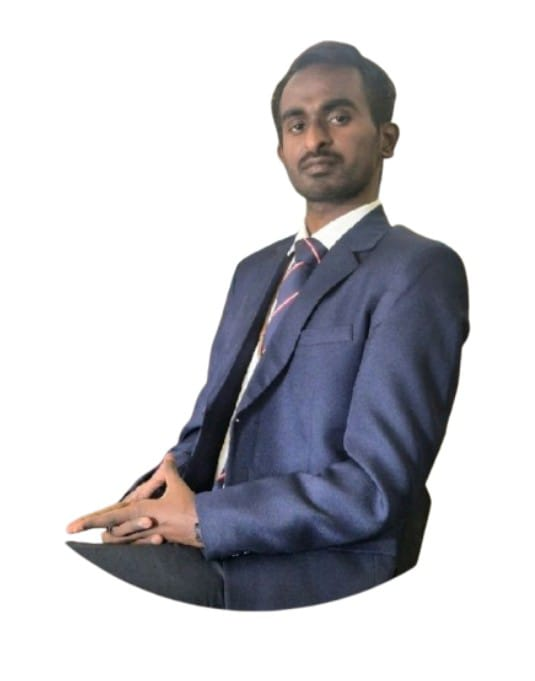
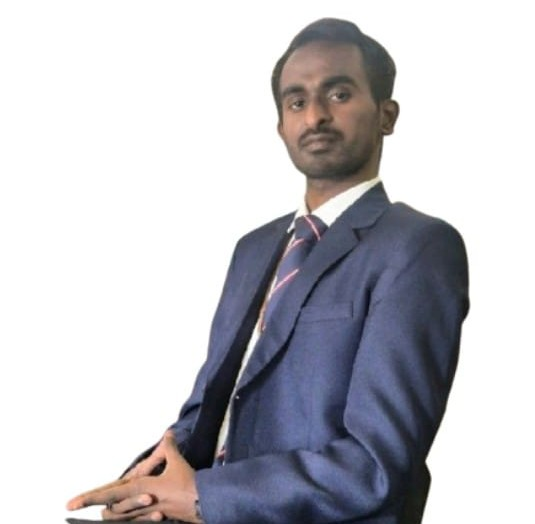
event updates added

diff --git a/components/EventUpdates/Index.jsx b/components/EventUpdates/Index.jsx
@@ -1,0 +1,160 @@
+import React, { useState, useEffect } from 'react';
+import { motion, AnimatePresence } from 'framer-motion';
+import { useRouter } from 'next/router';
+
+const EventUpdates = () => {
+  const router = useRouter();
+  const [currentIndex, setCurrentIndex] = useState(0);
+  const [direction, setDirection] = useState(1);
+
+  // Default sample data if no updates provided
+  const data = [
+    {
+      text: "PPT submission deadline extended to 8th October. Submit now!",
+      link: "/registration/techxhibit"
+    },
+      {
+      text: "Jury panel revealed! Meet our expert judges.",
+      link: "/#about-jury"
+    },
+    // {
+    //   text: "Workshop on AI/ML fundamentals scheduled for next week. Stay tuned!",
+    //   link: "/schedule"
+    // },
+    // {
+    //   text: "New sponsor announcement: TechCorp joins as Platinum Sponsor.",
+    //   link: "/sponsors"
+    // },
+  
+    // {
+    //   text: "Event location updated: Check the new venue details.",
+    //   link: "/location"
+    // }
+  ];
+
+ 
+
+  // Auto-advance carousel
+  useEffect(() => {
+    const timer = setInterval(() => {
+      setDirection(1);
+      setCurrentIndex((prevIndex) => (prevIndex + 1) % data.length);
+    }, 8000); // Change slide every 8 seconds
+
+    return () => clearInterval(timer);
+  }, [data.length]);
+
+  const goToSlide = (index) => {
+    setDirection(index > currentIndex ? 1 : -1);
+    setCurrentIndex(index);
+  };
+
+  const nextSlide = () => {
+    setDirection(1);
+    setCurrentIndex((prevIndex) => (prevIndex + 1) % data.length);
+  };
+
+  const prevSlide = () => {
+    setDirection(-1);
+    setCurrentIndex((prevIndex) => (prevIndex - 1 + data.length) % data.length);
+  };
+
+  const handleSlideClick = (link) => {
+    router.push(link);
+  };
+  if (data.length === 0) {
+    return null; // Don't render the section if there are no updates
+  }
+  return (
+    <div className="section-container py-10">
+      <motion.div
+        initial={{ opacity: 0, y: 30 }}
+        animate={{ opacity: 1, y: 0 }}
+        transition={{ duration: 0.8 }}
+        className="text-center mb-8"
+      >
+        <h2 className="text-4xl font-bold text-qiskit-white mb-4">
+          Event Updates
+        </h2>
+        <p className="text-gray-300 text-lg">
+          Stay updated with the latest news and announcements
+        </p>
+      </motion.div>
+
+      <div className="relative max-w-4xl mx-auto">
+        <div className="relative h-64 overflow-hidden rounded-lg bg-gray-900/50 border border-gray-700">
+          <motion.div
+            drag="x"
+            dragConstraints={{ left: 0, right: 0 }}
+            dragElastic={0}
+            dragMomentum={false}
+            onDragEnd={(event, info) => {
+              if (info.offset.x < -50) {
+                nextSlide();
+              } else if (info.offset.x > 50) {
+                prevSlide();
+              }
+            }}
+            className="cursor-grab active:cursor-grabbing"
+          >
+            <AnimatePresence mode="wait" custom={direction}>
+              <motion.div
+                key={currentIndex}
+                custom={direction}
+                initial={{ x: direction * 300, opacity: 0 }}
+                animate={{ x: 0, opacity: 1 }}
+                exit={{ x: -direction * 300, opacity: 0 }}
+                transition={{ duration: 0.5 }}
+                className="absolute inset-0 flex items-center justify-center p-8 cursor-pointer"
+                onClick={() => handleSlideClick(data[currentIndex].link)}
+              >
+                <div className="text-center">
+                  <div className="w-16 h-16 bg-gradient-to-r from-qiskit-blue-normal to-qiskit-purple-lighter rounded-full mx-auto mb-6 flex items-center justify-center shadow-lg">
+                    <span className="text-2xl font-bold text-white">!</span>
+                  </div>
+                  <p className="text-gray-300 text-lg leading-relaxed hover:text-qiskit-white transition-colors">
+                    {data[currentIndex]?.text}
+                  </p>
+                  <div className="mt-6 text-qiskit-yellow font-medium text-sm opacity-0 hover:opacity-100 transition-opacity">
+                    Click to learn more →
+                  </div>
+                </div>
+              </motion.div>
+            </AnimatePresence>
+          </motion.div>
+        </div>
+
+        {/* Navigation arrows */}
+        <button
+          onClick={prevSlide}
+          className="hidden md:block absolute left-4 top-1/2 transform -translate-y-1/2 bg-gray-800/80 hover:bg-gray-700 text-white md:p-4 p-3 rounded-full shadow-lg transition-colors"
+        >
+          ‹
+        </button>
+        <button
+          onClick={nextSlide}
+          className="hidden md:block absolute right-4 top-1/2 transform -translate-y-1/2 bg-gray-800/80 hover:bg-gray-700 text-white md:p-4 p-3 rounded-full shadow-lg transition-colors"
+        >
+          ›
+        </button>
+
+        {/* Dots indicator */}
+        <div className="flex justify-center mt-6 space-x-2">
+          {data.map((_, index) => (
+            <button
+              key={index}
+              onClick={() => goToSlide(index)}
+              className={`w-3 h-3 rounded-full transition-colors ${
+                index === currentIndex
+                  ? 'bg-qiskit-yellow'
+                  : 'bg-gray-600 hover:bg-gray-500'
+              }`}
+            />
+          ))}
+        </div>
+      </div>
+    </div>
+  );
+};
+
+export default EventUpdates;

diff --git a/pages/index.jsx b/pages/index.jsx
@@ -4,6 +4,7 @@ import AboutJury from "../components/AboutJury/Index";
 import AboutMentors from "../components/AboutMentors/Index";
 import ContactUs from "../components/ContactUs/Index";
 import EventLocation from "../components/EventLocation/Index";
+import EventUpdates from "../components/EventUpdates/Index";
 import Footer from "../components/Footer/Index";
 import Hero from "../components/Hero/Index";
 import Places from "../components/Places/Index";
@@ -25,9 +26,10 @@ export default function Home() {
       <Hero />
 
       <main className="font-IBM-Plex">
-      
-       
+
+
   <AboutEvent />
+  <EventUpdates />
   <CountdownTimer />
   <ContactUs />
         <Memories />

diff --git a/components/AboutJury/Index.jsx b/components/AboutJury/Index.jsx
@@ -7,7 +7,7 @@ import maqam from "../../images/shapes/MaqamWhite.png";
 import rohith from "../../images/speakers/rohith.jpeg";
 // import Nanjeshbennur from "../../images/speakers/Nanjeshbennur.jpg";
 import aman from "../../images/speakers/aman.jpg";
-import NithinKamath from "../../images/speakers/NithinKamath.jpg";
+import NithinKamath from "../../images/speakers/NK.png";
 import ParagSection2 from "../helpers/ParagSection2";
 import SectionTitle from "../helpers/SectionTitle";
 import { div } from "framer-motion/client";

diff --git a/pages/api/register.js b/pages/api/register.js
@@ -204,6 +204,7 @@ function processEsportsFields(fields, teamData) {
 //
 // 🔧 Helper: THINK 'N' BLINK & ESCAPE ROOM
 //
+
 function processOtherFields(fields, teamData) {
   fields.forEach(field => {
     const label = field.label.trim();
@@ -222,7 +223,7 @@ function processOtherFields(fields, teamData) {
       case 'Team Name':
         teamData.teamName = value;
         break;
-      case 'College Name':
+      case 'College name':
         teamData.collegeName = value;
         break;
       case 'Semester':

diff --git a/TODO.md b/TODO.md
@@ -74,3 +74,27 @@ curl http://localhost:3000/api/teams
 ```
 
 The admin dashboard should now properly display teams or show an appropriate message when no teams are registered.
+
+---
+
+# EventUpdates Component - Added
+
+## Component Overview
+- **Purpose**: Display event updates like notifications with links for redirection.
+- **Features**: Mobile-responsive, matches theme (dark bg, yellow/blue/purple accents), includes animations using framer-motion.
+- **Data Structure**: Array of objects with 'text' (update message) and 'link' (URL for redirection).
+
+## Implementation Details
+- **File**: `components/EventUpdates/Index.jsx`
+- **Styling**: Uses Tailwind CSS with custom theme colors, neon-text for glow effects.
+- **Animations**: Fade-in with stagger, hover scale and glow.
+- **Responsiveness**: Grid layout (1 col mobile, 2 md, 3 lg).
+- **Dependencies**: Framer-motion (already installed).
+
+## Usage
+- Import and use `<EventUpdates />` in any page or component.
+- Pass custom data array as prop if needed, or use default sample data.
+
+## Next Steps
+- Integrate into relevant pages (e.g., dashboard or home page) if required.
+- Test responsiveness and animations in browser.
